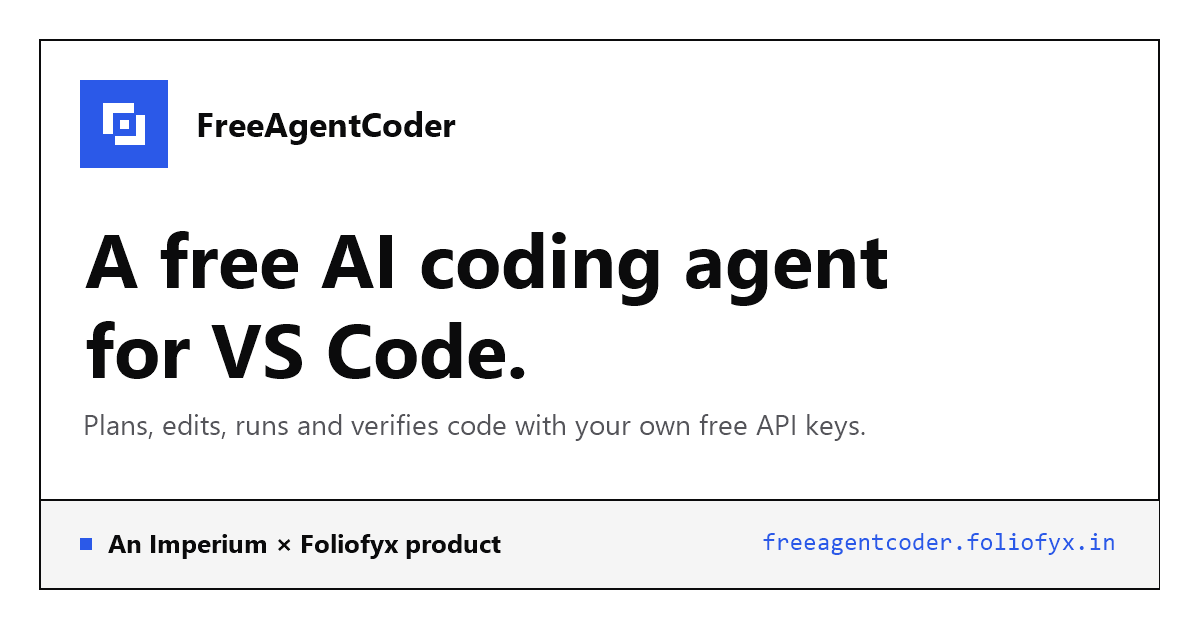
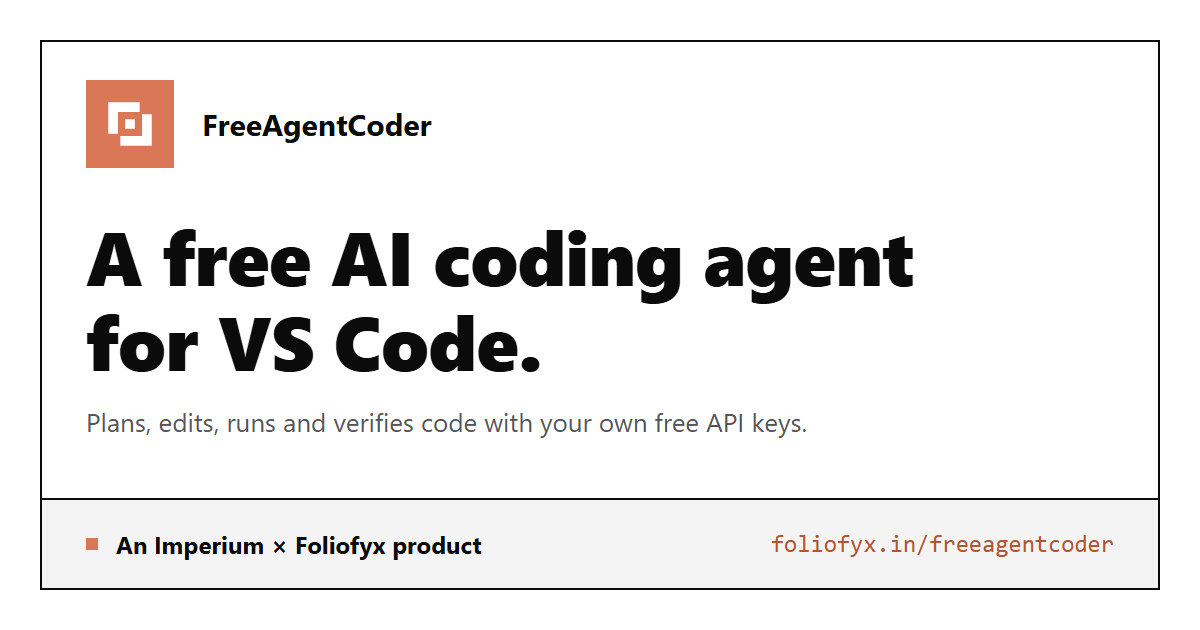
Orange brand, real screenshots, and fix overlapping button labels
Fix: updating a button's label used querySelector('span'), which matched
the icon (also a span) and replaced it with text. The text overflowed the
icon box onto the real label ("et a free keGet a free key"), and the same
happened to "Save key" while verifying. Labels now carry a .btn-label
class and are targeted directly.

- "Get a free <Provider> key" is a full-width primary button, checked at a
  390px sidebar width.
- Brand color is Claude orange (#d97757) across the chat panel, buttons,
  switches, the Marketplace icon, site icon, touch icon and social card;
  light themes use a deeper shade (#b4552f) so small text stays readable.
- Four screenshots rendered from the shipped webview bundle, in the README
  (served from GitHub) and in a gallery on the site.
- Social card now shows foliofyx.in/freeagentcoder.
- Marketplace keywords: ai coding, ai chat and unit tests replace
  lower-volume terms; site meta keywords and alternateName name variants.

diff --git a/freeagentcoder/src/webview/app/styles.css b/freeagentcoder/src/webview/app/styles.css
@@ -7,18 +7,27 @@
     --surface-3: color-mix(in srgb, var(--vscode-foreground) 9%, var(--bg));
     --border: var(--vscode-widget-border, var(--vscode-panel-border, rgba(128, 128, 128, 0.35)));
     --border-soft: color-mix(in srgb, var(--vscode-foreground) 12%, transparent);
-    --accent: var(--vscode-textLink-foreground);
-    --focus: var(--vscode-focusBorder);
+    /* Brand orange. Dark themes use the exact shade; light themes a deeper one so small text stays readable. */
+    --accent: #d97757;
+    --accent-hover: #e38a6e;
+    --on-accent: #ffffff;
+    --focus: var(--accent);
     --ok: var(--vscode-testing-iconPassed, #3fb950);
     --bad: var(--vscode-errorForeground, #f14c4c);
     --warn: var(--vscode-editorWarning-foreground, #cca700);
-    --info: var(--vscode-editorInfo-foreground, #3794ff);
+    --info: var(--accent);
     --add-bg: var(--vscode-diffEditor-insertedLineBackground, rgba(46, 160, 67, 0.15));
     --del-bg: var(--vscode-diffEditor-removedLineBackground, rgba(248, 81, 73, 0.15));
     --mono: var(--vscode-editor-font-family, ui-monospace, monospace);
     --mono-size: calc(var(--vscode-editor-font-size, 13px) - 1px);
     --radius: 8px;
     --radius-sm: 5px;
+}
+
+/* VS Code marks light themes on <body>; #d97757 is too light for small text on white. */
+body.vscode-light {
+    --accent: #b4552f;
+    --accent-hover: #9a4524;
 }
 
 * { box-sizing: border-box; }
@@ -395,8 +404,8 @@ details[open] > summary .caret { transform: rotate(90deg); }
 .btn .icon { width: 14px; height: 14px; }
 .btn.small { min-height: 22px; padding: 2px 8px; font-size: 11.5px; }
 .btn.block { width: 100%; }
-.btn.primary { background: var(--vscode-button-background); color: var(--vscode-button-foreground); }
-.btn.primary:hover { background: var(--vscode-button-hoverBackground); }
+.btn.primary { background: var(--accent); color: var(--on-accent); }
+.btn.primary:hover { background: var(--accent-hover); }
 .btn.secondary { background: var(--vscode-button-secondaryBackground); color: var(--vscode-button-secondaryForeground); }
 .btn.secondary:hover { background: var(--vscode-button-secondaryHoverBackground); }
 .btn.ghost { background: transparent; color: var(--muted); }
@@ -467,11 +476,11 @@ select.input { background: var(--vscode-dropdown-background, var(--vscode-input-
     height: 28px;
     border: 0;
     border-radius: 7px;
-    background: var(--vscode-button-background);
-    color: var(--vscode-button-foreground);
+    background: var(--accent);
+    color: var(--on-accent);
     cursor: pointer;
 }
-.send-btn:hover { background: var(--vscode-button-hoverBackground); }
+.send-btn:hover { background: var(--accent-hover); }
 .send-btn:disabled { opacity: 0.4; cursor: default; }
 .send-btn.stop { background: var(--vscode-button-secondaryBackground); color: var(--vscode-button-secondaryForeground); }
 .composer-foot { display: flex; align-items: center; gap: 12px; min-height: 20px; padding: 5px 2px 0; color: var(--muted); font-size: 11px; }
@@ -694,8 +703,8 @@ select.input { background: var(--vscode-dropdown-background, var(--vscode-input-
 .switch-text { display: flex; flex-direction: column; gap: 2px; min-width: 0; }
 .switch { position: relative; flex: none; width: 34px; height: 20px; padding: 0; border: 1px solid var(--border); border-radius: 999px; background: var(--surface-3); cursor: pointer; }
 .switch-knob { position: absolute; top: 2px; left: 2px; width: 14px; height: 14px; border-radius: 50%; background: var(--muted); transition: transform 0.15s ease, background 0.15s ease; }
-.switch.on { border-color: var(--vscode-button-background); background: var(--vscode-button-background); }
-.switch.on .switch-knob { background: var(--vscode-button-foreground); transform: translateX(14px); }
+.switch.on { border-color: var(--accent); background: var(--accent); }
+.switch.on .switch-knob { background: var(--on-accent); transform: translateX(14px); }
 
 .history-list { display: flex; flex-direction: column; gap: 2px; }
 .history-group-title { margin: 8px 0 2px; color: var(--muted); font-size: 10.5px; font-weight: 600; letter-spacing: 0.4px; text-transform: uppercase; }
@@ -790,7 +799,9 @@ select.input { background: var(--vscode-dropdown-background, var(--vscode-input-
 /* Add-key form: per-provider steps and pasted-key detection */
 .key-steps { display: grid; gap: 4px; margin: 6px 0 0; padding-left: 18px; color: var(--muted); font-size: 11.5px; line-height: 1.5; }
 .key-steps li { padding-left: 2px; }
-.provider-note .btn { align-self: flex-start; margin-top: 8px; }
+/* The first step for anyone without a key, so it reads as the main action, not a footnote. */
+.btn.get-key { align-self: stretch; justify-content: center; min-height: 30px; margin-top: 10px; font-size: 12.5px; font-weight: 600; }
+.btn.get-key .icon { width: 13px; height: 13px; }
 .detected { display: flex; align-items: center; gap: 6px; color: var(--ok); font-size: 11.5px; }
 .detected .icon { width: 13px; height: 13px; }
 .detected.warn { color: var(--warn); }

diff --git a/apps/site/index.html b/apps/site/index.html
@@ -5,7 +5,8 @@
 <meta name="viewport" content="width=device-width, initial-scale=1">
 <title>FreeAgentCoder — Free, Open-Source AI Coding Agent for VS Code</title>
 <meta name="description" content="FreeAgentCoder is a free, open-source AI coding agent and pair programmer for VS Code. It plans, edits, runs and verifies code using your own free API keys from Gemini, Groq, Cerebras, Mistral and OpenRouter, or paid OpenAI and Anthropic keys. No subscription.">
-<meta name="keywords" content="free ai coding agent, ai pair programmer, vibe coding, agentic ai, github copilot alternative, vs code ai extension, gemini api key, groq, cerebras, byok, open source ai agent">
+<meta name="keywords" content="FreeAgentCoder, Free Agent Coder, free ai coding agent, ai coding assistant, ai code assistant, free ai for vs code, vs code ai extension, vscode ai agent, ai agent mode, agentic coding, vibe coding, ai pair programmer, free copilot alternative, github copilot alternative, cursor alternative, claude code alternative, ai code generator, ai bug fixer, ai code review, ai unit test generator, ai refactoring, bring your own key, byok, free llm api, gemini api key, gemini 3, groq api, cerebras api, openrouter free models, claude api, claude sonnet, gpt-5, open source ai agent, no subscription ai coding">
+<meta name="apple-mobile-web-app-title" content="FreeAgentCoder">
 <link rel="canonical" href="__SITE_URL__/">
 <meta name="color-scheme" content="light dark">
 <meta name="theme-color" content="#ffffff" media="(prefers-color-scheme: light)">
@@ -38,6 +39,7 @@
   "@context": "https://schema.org",
   "@type": "SoftwareApplication",
   "name": "FreeAgentCoder",
+  "alternateName": ["Free Agent Coder", "FreeAgent Coder", "freeagentcoder"],
   "description": "A free, open-source AI coding agent and pair programmer for VS Code that plans, edits, runs and verifies code using your own free API keys from Gemini, Groq, Cerebras, Mistral and OpenRouter, or paid OpenAI and Anthropic keys.",
   "url": "__SITE_URL__/",
   "image": "__SITE_URL__/og.png",

diff --git a/apps/site/src/styles.css b/apps/site/src/styles.css
@@ -8,9 +8,10 @@
   --line: #e1e1e1;
   --line-strong: #0b0b0c;
   --control: #76767b;
-  --accent: #2b59e8;
-  --accent-hover: #1f46c6;
-  --accent-weak: #ebf0fd;
+  /* Claude orange. #d97757 is too light for small text on white, so light mode uses a deeper shade of it (4.9:1). */
+  --accent: #b4552f;
+  --accent-hover: #9a4524;
+  --accent-weak: #fbeee8;
   --on-accent: #ffffff;
   --font: ui-sans-serif, system-ui, -apple-system, "Segoe UI", Roboto, "Helvetica Neue", Arial, sans-serif;
   --mono: ui-monospace, "SF Mono", "Cascadia Mono", "Cascadia Code", Consolas, "Liberation Mono", Menlo, monospace;
@@ -29,9 +30,9 @@
     --line: #2a2a2e;
     --line-strong: #f2f2f3;
     --control: #8a8a90;
-    --accent: #6b8cff;
-    --accent-hover: #8ca5ff;
-    --accent-weak: #172142;
+    --accent: #d97757;
+    --accent-hover: #e8927c;
+    --accent-weak: #3a2219;
     --on-accent: #0c0c0d;
     color-scheme: dark;
   }
@@ -843,6 +844,20 @@ tbody td a { white-space: nowrap; }
     transition-duration: 0.01ms !important;
     scroll-behavior: auto !important;
   }
+}
+
+/* Screenshots of the real extension */
+.shots { margin-top: 56px; }
+.shots-label { margin-bottom: 18px; }
+.shots-grid { display: grid; grid-template-columns: repeat(4, minmax(0, 1fr)); gap: 16px; align-items: start; }
+.shot { margin: 0; border: 1px solid var(--line-strong); background: #181818; }
+.shot img { display: block; width: 100%; height: auto; }
+.shot figcaption { padding: 10px 12px; border-top: 1px solid var(--line-strong); background: var(--bg); color: var(--muted); font-size: 13.5px; line-height: 1.45; }
+@media (max-width: 960px) {
+  .shots-grid { grid-template-columns: repeat(2, minmax(0, 1fr)); }
+}
+@media (max-width: 480px) {
+  .shots-grid { grid-template-columns: minmax(0, 1fr); }
 }
 
 /* Long-form SEO articles */

diff --git a/freeagentcoder/src/webview/app/settings.ts b/freeagentcoder/src/webview/app/settings.ts
@@ -246,7 +246,7 @@ class AddKeyForm {
             this.reveal.replaceChildren(icon(show ? 'eyeOff' : 'eye'));
         });
         this.paste = iconButton('copy', 'Paste the key you just copied', () => send({ type: 'pasteClipboard' }));
-        this.getKey = button('Get a free key', 'secondary small', () => this.openSignup(), 'external');
+        this.getKey = button('Get a free key', 'primary get-key', () => this.openSignup(), 'external');
         this.save = button('Save key', 'primary', () => this.submit(), 'check');
         this.provider.addEventListener('change', () => {
             this.pickedByUser = true;
@@ -384,9 +384,9 @@ class AddKeyForm {
         const provider = this.current();
         this.note.textContent = provider?.note ?? '';
         this.getKey.hidden = !provider?.signupUrl;
-        const label = this.getKey.querySelector('span');
-        if (label) {
-            label.textContent = provider?.free ? 'Get a free key' : 'Get a key';
+        const label = this.getKey.querySelector('.btn-label');
+        if (label && provider) {
+            label.textContent = provider.free ? `Get a free ${provider.label} key` : `Get a ${provider.label} key`;
         }
         this.getKey.title = provider?.signupUrl ? `Opens ${provider.signupUrl} in your browser` : '';
         const steps = provider ? (KEY_STEPS[provider.id] ?? []) : [];
@@ -416,7 +416,7 @@ class AddKeyForm {
 
     private setBusy(busy: boolean): void {
         this.save.disabled = busy;
-        const label = this.save.querySelector('span');
+        const label = this.save.querySelector('.btn-label');
         if (label) {
             label.textContent = busy ? 'Verifying…' : 'Save key';
         }

diff --git a/apps/site/src/App.tsx b/apps/site/src/App.tsx
@@ -40,6 +40,7 @@ export function App() {
           lead="Plan, read, edit, test, report. Every step shows up in the chat panel as it happens. Jump to any step, or pause and read."
         >
           <Demo />
+          <Screenshots />
         </Section>
 
         <Section id="features" index="02" label="Features" title="A real agent, not a chat box" lead="Pick a feature to see what it does." alt>
@@ -100,6 +101,29 @@ export function App() {
       </main>
       <Footer />
     </>
+  );
+}
+
+const SCREENSHOTS = [
+  { file: 'chat', caption: 'Plans, edits and verifies — every step visible', alt: 'A task running: the plan, a file edit with its diff, and live status' },
+  { file: 'correction', caption: 'Point out a fix with a screenshot, and it remembers', alt: 'Correction mode: a pasted screenshot fixed point by point, with the lesson saved' },
+  { file: 'keys', caption: 'Your keys stay on your device', alt: 'API keys stored encrypted on the device, with usage and limits per key' },
+  { file: 'overview', caption: 'Prompts left today, and every feature switch', alt: 'Overview: prompts left today, project status and feature switches' },
+];
+
+function Screenshots() {
+  return (
+    <div className="shots">
+      <p className="label shots-label">The real extension</p>
+      <div className="shots-grid">
+        {SCREENSHOTS.map((shot) => (
+          <figure className="shot" key={shot.file}>
+            <img src={`screenshots/${shot.file}.png`} alt={shot.alt} width={1040} loading="lazy" decoding="async" />
+            <figcaption>{shot.caption}</figcaption>
+          </figure>
+        ))}
+      </div>
+    </div>
   );
 }
 

diff --git a/freeagentcoder/src/webview/app/dom.ts b/freeagentcoder/src/webview/app/dom.ts
@@ -53,7 +53,8 @@ export function fill(parent: Element, ...children: Child[]): void {
 }
 
 export function button(label: string, variant: string, onClick: () => void, iconName?: IconName, title?: string): HTMLButtonElement {
-    const el = h('button', { class: `btn ${variant}`, attrs: { type: 'button' }, title }, iconName ? icon(iconName) : null, label ? h('span', { text: label }) : null);
+    // The label has its own class: icon() is also a <span>, so "the first span" is not the label.
+    const el = h('button', { class: `btn ${variant}`, attrs: { type: 'button' }, title }, iconName ? icon(iconName) : null, label ? h('span', { class: 'btn-label', text: label }) : null);
     el.addEventListener('click', onClick);
     return el;
 }

diff --git a/freeagentcoder/src/webview/app/transcript.ts b/freeagentcoder/src/webview/app/transcript.ts
@@ -984,7 +984,7 @@ function collapsible(content: HTMLElement, lineCount: number, visible: number): 
     wrap.classList.add('collapsed');
     const toggle = button(`Show all ${lineCount} lines`, 'link small', () => {
         const collapsed = wrap.classList.toggle('collapsed');
-        const label = toggle.querySelector('span');
+        const label = toggle.querySelector('.btn-label');
         if (label) {
             label.textContent = collapsed ? `Show all ${lineCount} lines` : 'Show less';
         }

diff --git a/freeagentcoder/README.md b/freeagentcoder/README.md
@@ -1,6 +1,6 @@
 # FreeAgentCoder — free AI coding agent for VS Code
 
-[![Visual Studio Marketplace](https://img.shields.io/visual-studio-marketplace/v/PrateekKoratala.freeagentcoder?label=Marketplace&color=1f6feb)](https://marketplace.visualstudio.com/items?itemName=PrateekKoratala.freeagentcoder)
+[![Visual Studio Marketplace](https://img.shields.io/visual-studio-marketplace/v/PrateekKoratala.freeagentcoder?label=Marketplace&color=d97757)](https://marketplace.visualstudio.com/items?itemName=PrateekKoratala.freeagentcoder)
 [![License: MIT](https://img.shields.io/badge/license-MIT-2ea043)](https://github.com/Prateek22672/FreeAgentCoder/blob/main/LICENSE.txt)
 [![Source](https://img.shields.io/badge/source-open-6e7681)](https://github.com/Prateek22672/FreeAgentCoder)
 
@@ -16,6 +16,27 @@ It is a free alternative to paid AI coding assistants: no subscription, no per-s
 - **Your keys stay on your device.** Encrypted in VS Code Secret Storage, never uploaded to FreeAgentCoder or anyone else, and sent only to the provider each key belongs to.
 - **Understands what you show it.** Paste screenshots, PDFs, Word, PowerPoint or Excel files, or long text.
 - **Takes corrections seriously.** Point at what's wrong and it fixes exactly that, then remembers the lesson.
+
+## Screenshots
+
+<table>
+  <tr>
+    <td width="50%"><img src="https://raw.githubusercontent.com/Prateek22672/FreeAgentCoder/main/freeagentcoder/media/screenshots/chat.png" alt="A task running: the plan, a file edit with its diff, and live status"></td>
+    <td width="50%"><img src="https://raw.githubusercontent.com/Prateek22672/FreeAgentCoder/main/freeagentcoder/media/screenshots/correction.png" alt="Correction mode: a pasted screenshot fixed point by point, with the lesson saved"></td>
+  </tr>
+  <tr>
+    <td align="center"><b>Plans, edits and verifies</b> — every step visible</td>
+    <td align="center"><b>Point out a fix</b> — with a screenshot, and it remembers</td>
+  </tr>
+  <tr>
+    <td width="50%"><img src="https://raw.githubusercontent.com/Prateek22672/FreeAgentCoder/main/freeagentcoder/media/screenshots/keys.png" alt="API keys: stored encrypted on your device, with usage and limits per key"></td>
+    <td width="50%"><img src="https://raw.githubusercontent.com/Prateek22672/FreeAgentCoder/main/freeagentcoder/media/screenshots/overview.png" alt="Overview: prompts left today, project status and feature switches"></td>
+  </tr>
+  <tr>
+    <td align="center"><b>Your keys stay on your device</b> — usage and limits per key</td>
+    <td align="center"><b>Prompts left today</b> — and every feature switch</td>
+  </tr>
+</table>
 
 ## Quick start
 

diff --git a/freeagentcoder/CHANGELOG.md b/freeagentcoder/CHANGELOG.md
@@ -2,7 +2,15 @@
 
 ## 0.1.2 — Clearer positioning
 
+### Fixed
+
+- The "Get a free key" button and the "Save key" button showed overlapping, cut-off text: updating a button's label replaced its icon instead. Button labels are now targeted directly.
+
 ### Changed
+
+- New orange brand color throughout the chat panel, buttons, switches and icon.
+- Adding a key: "Get a free Gemini key" (named for the selected provider) is now a clear full-width button, a pasted key selects its provider automatically, and a Paste button reads the clipboard in one click.
+- Screenshots on the Marketplace page.
 
 - Description and keywords now use the terms people actually search for ("AI pair programmer", "vibe coding", "agentic AI", "open source", "BYOK") alongside every supported provider and model name. Added a SUPPORT.md so the Marketplace page shows a support link.
 
